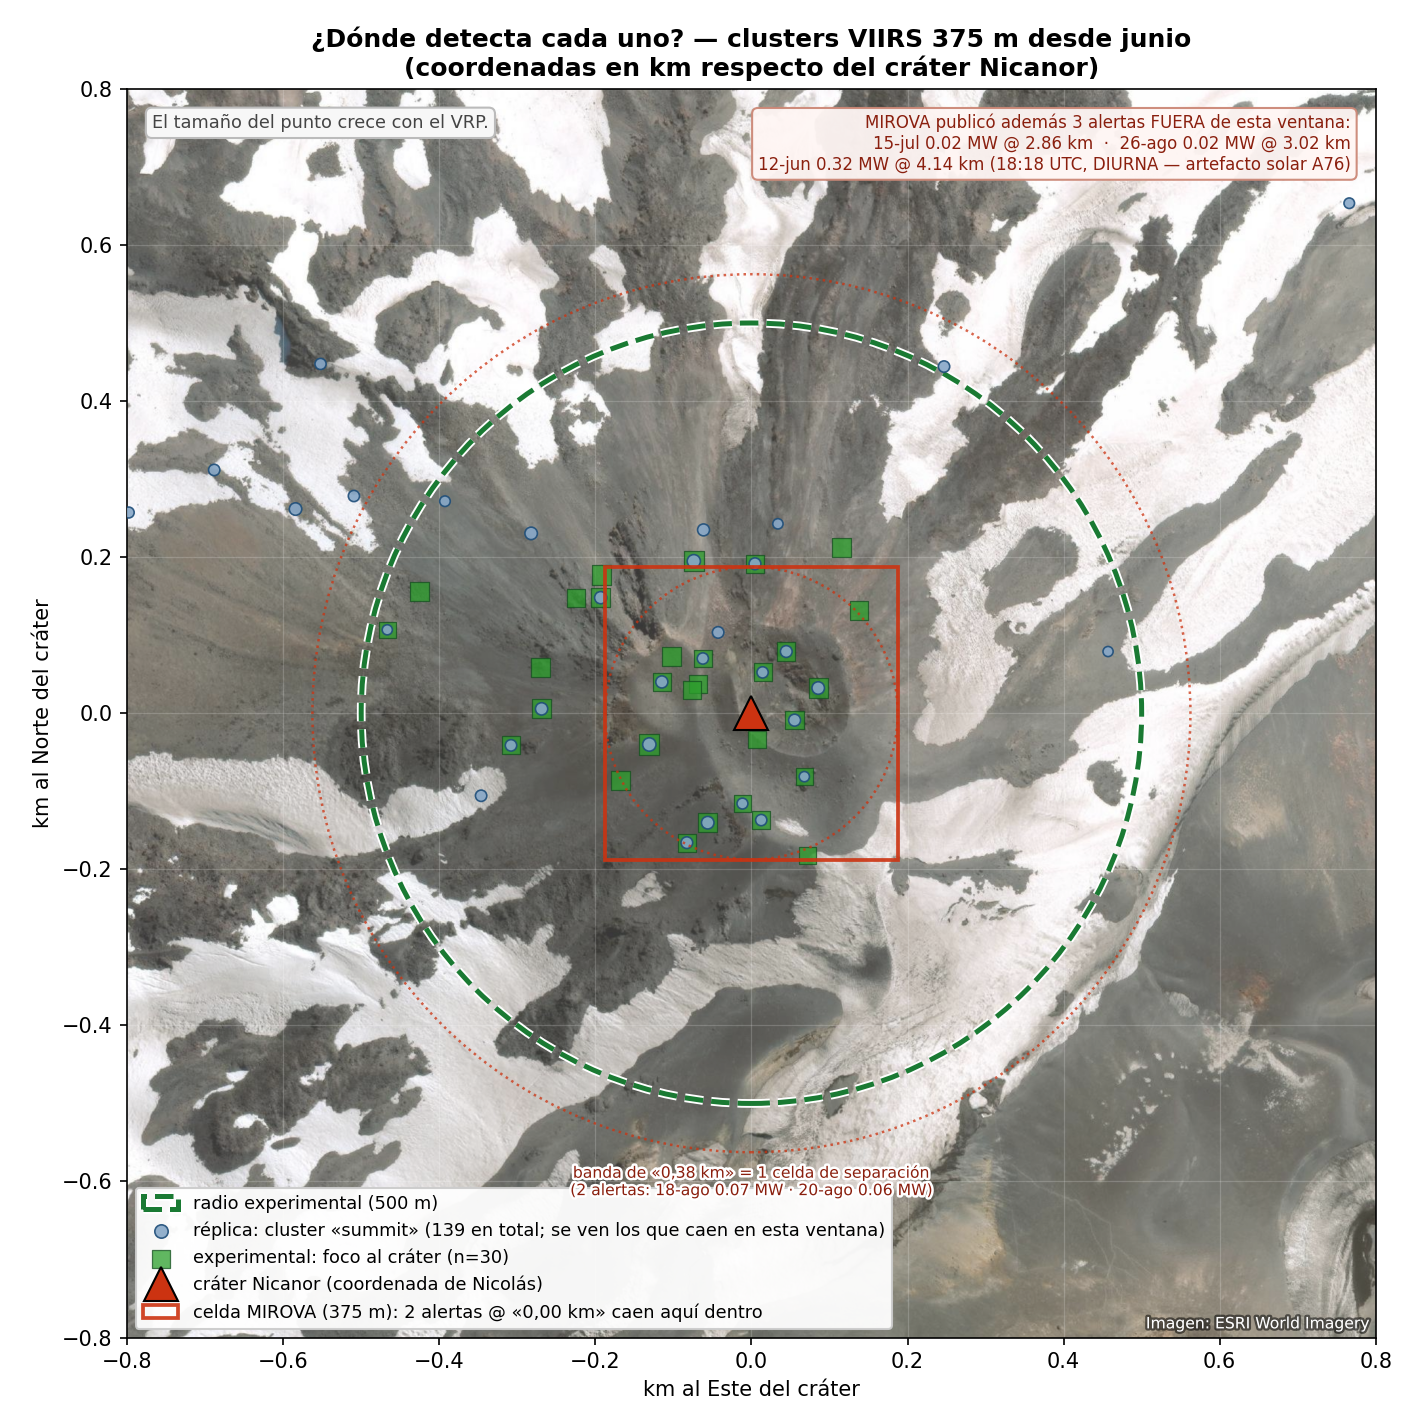
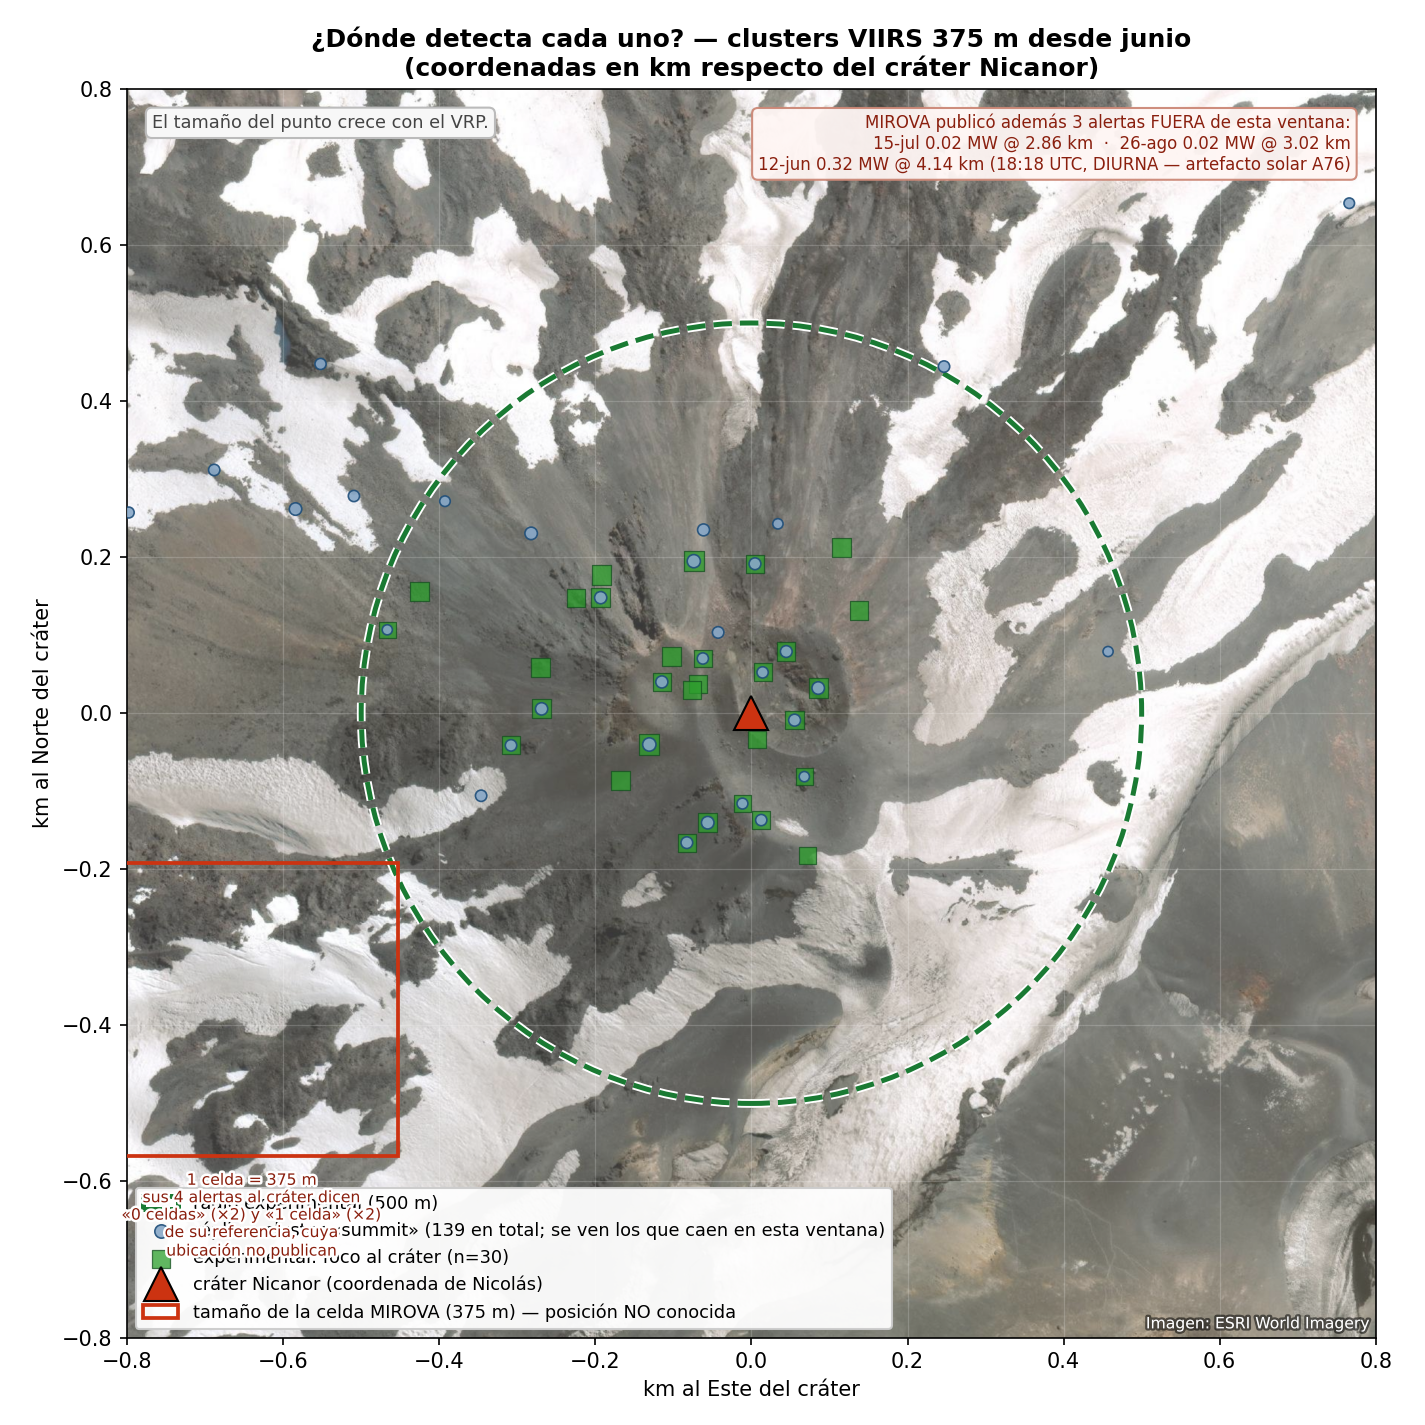
fix(s124): la celda MIROVA va como regla de escala, no anclada al crater
Nicolas objeto, con razon: dibujar la celda centrada en el crater da a entender
que la grilla de MIROVA esta alineada con el crater activo, y eso NO lo sabemos.
Reemplace una precision inventada (el anillo fino) por otra (la posicion de la
celda). Del dato se deduce el TAMANO de la celda; su POSICION queda
indeterminada -- Coppola dice "centred on the volcano's summit" pero no publica
esa coordenada, y aun publicandola el borde podria caer en cualquier parte
respecto del crater.

Ahora la celda se dibuja como regla de escala en una esquina, etiquetada
"posicion NO conocida".

FRENTE QUE ESTO ABRE: determinar el origen de la grilla de MIROVA es respondible
con lo que ya tenemos. Hay 903 pares (alerta MIROVA + deteccion nuestra en la
misma pasada, +-3 min) sobre los 11 Tier A. Si el hotspot de ellos y nuestro
cluster son el mismo objeto fisico, cada par restringe el origen modulo el
tamano de celda; con 903 restricciones queda determinado.

Importa para F70: implementamos el TAMANO de celda correcto pero anclamos
nuestra grilla a nuestra propia cumbre. Si el origen de MIROVA esta desplazado,
nuestras celdas no coinciden con las suyas y el sustrato de deteccion difiere
aunque la resolucion sea identica: dos pixeles del mismo tamano pero corridos
median vecindarios distintos. No bloquea F70.3 pero puede explicar un residual.

diff --git a/experiments/_s124_ndc_focus/plot_mapa.py b/experiments/_s124_ndc_focus/plot_mapa.py
@@ -117,15 +117,25 @@ ax.plot(0, 0, "^", ms=16, c="#cc3311", mec="k", zorder=5, label="cráter Nicanor
 # Por eso se dibuja una BANDA de ±media celda alrededor del cráter, y no un
 # anillo fino: pretender más precisión sería inventarla.
 CELDA = 0.375
-ax.add_patch(plt.Rectangle((-CELDA/2, -CELDA/2), CELDA, CELDA, fill=False,
-                           color="#cc3311", lw=1.8, ls="-", zorder=6, alpha=0.9,
-                           label="celda MIROVA (375 m): 2 alertas @ «0,00 km» caen aquí dentro"))
-for rk in (CELDA - CELDA/2, CELDA + CELDA/2):
-    ax.add_patch(plt.Circle((0, 0), rk, fill=False, color="#cc3311", lw=1.2,
-                            ls=":", zorder=6, alpha=0.75))
-ax.annotate("banda de «0,38 km» = 1 celda de separación\n"
-            "(2 alertas: 18-ago 0.07 MW · 20-ago 0.06 MW)",
-            xy=(0, -(CELDA + CELDA/2)), xytext=(0, -6), textcoords="offset points",
+# Se dibuja la celda como REGLA DE ESCALA en una esquina, NO anclada al cráter.
+# Por qué (corrección tras la observación de Nicolás, S124): dibujarla centrada
+# en el cráter daba a entender que la grilla de MIROVA está alineada con el
+# cráter activo, y eso NO lo sabemos. Coppola dice que su grilla va "centred on
+# the volcano's summit", pero no publica esa coordenada, y aunque la
+# publicara, el borde de la celda podría caer en cualquier parte respecto del
+# cráter. Del dato solo se deduce el TAMAÑO de la celda; su POSICIÓN queda
+# indeterminada. Anclarla al cráter era volver a inventar precisión, solo que
+# de otra forma.
+_cx, _cy = -LIM + 0.16, -LIM + 0.42
+ax.add_patch(plt.Rectangle((_cx - CELDA/2, _cy - CELDA/2), CELDA, CELDA,
+                           fill=False, color="#cc3311", lw=1.8, zorder=6,
+                           label="tamaño de la celda MIROVA (375 m) — posición NO conocida"))
+ax.annotate("1 celda = 375 m\n"
+            "sus 4 alertas al cráter dicen\n"
+            "«0 celdas» (×2) y «1 celda» (×2)\n"
+            "de su referencia, cuya\n"
+            "ubicación no publican",
+            xy=(_cx, _cy - CELDA/2), xytext=(0, -8), textcoords="offset points",
             ha="center", va="top", fontsize=7.5, color="#8a1f0e", zorder=7,
             path_effects=[pe.withStroke(linewidth=2.4, foreground="white")])
 

diff --git a/docs/MIROVA_DIVERGENCES.md b/docs/MIROVA_DIVERGENCES.md
@@ -1552,6 +1552,24 @@ Control: con celdas arbitrarias el ajuste cae (VIIRS375 a 0,5 km → 89 %; a
    (Villarrica 0,84 km fija): esa idiosincrasia es consistente con una celda
    fija de la grilla, no necesariamente con una coordenada GVP.
 
-**Aplicación inmediata.** El mapa de NdC (`experiments/_s124_ndc_focus/`) ya no
-dibuja un anillo fino sino la **celda de 375 m** más una banda de ±media celda:
-pretender más precisión sería inventarla.
+**Aplicación inmediata.** El mapa de NdC (`experiments/_s124_ndc_focus/`) dibuja
+la celda **como regla de escala en una esquina, NO anclada al cráter**. La
+primera versión la dibujó centrada en el cráter y Nicolás lo objetó con razón:
+eso da a entender que la grilla de MIROVA está alineada con el cráter activo, y
+**no lo sabemos**. Del dato se deduce el TAMAÑO de la celda; su POSICIÓN queda
+indeterminada. Anclarla al cráter era volver a inventar precisión, solo que de
+otra forma.
+
+**Frente que esto abre — determinar el origen de la grilla de MIROVA.** La
+pregunta *"¿dónde caen sus bordes de celda?"* es respondible con los datos que
+ya tenemos: hay **903 pares** (alerta MIROVA + detección nuestra en la misma
+pasada, ±3 min) sobre los 11 Tier A. Si su hotspot y nuestro cluster son el
+mismo objeto físico, cada par restringe el origen módulo el tamaño de celda; con
+903 restricciones el origen queda determinado.
+
+Importa para F70: **implementamos el tamaño de celda correcto, pero anclamos
+nuestra grilla al `mirova_center`/cumbre nuestra**. Si el origen de MIROVA está
+desplazado, nuestras celdas no coinciden con las suyas y el sustrato de
+detección difiere aunque la resolución sea idéntica — dos píxeles del mismo
+tamaño pero corridos median vecindarios distintos. Pendiente de diseñar; no
+bloquea el A/B de F70.3, pero puede explicar un residual.
